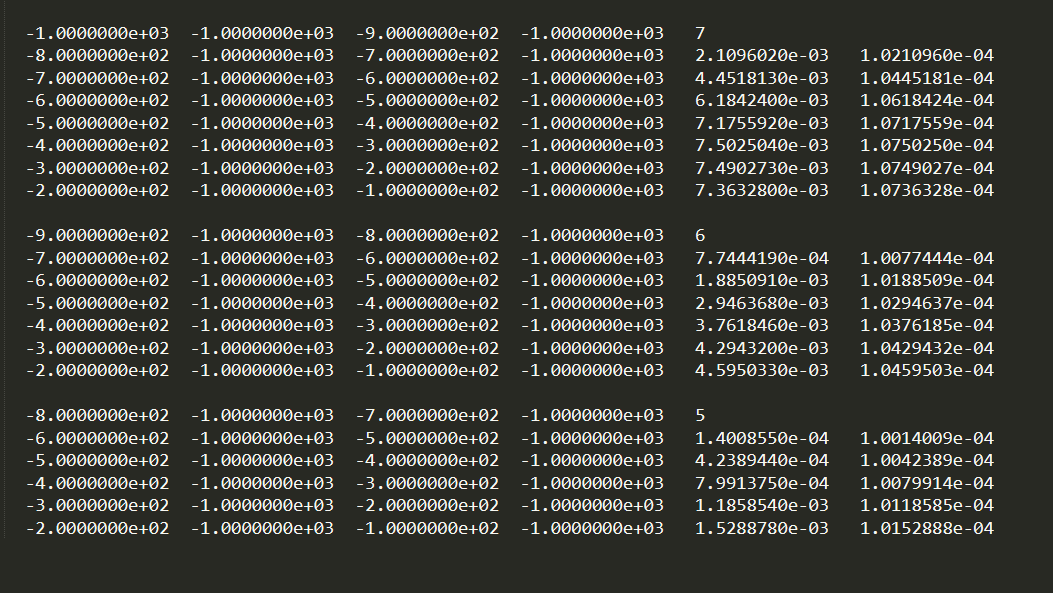
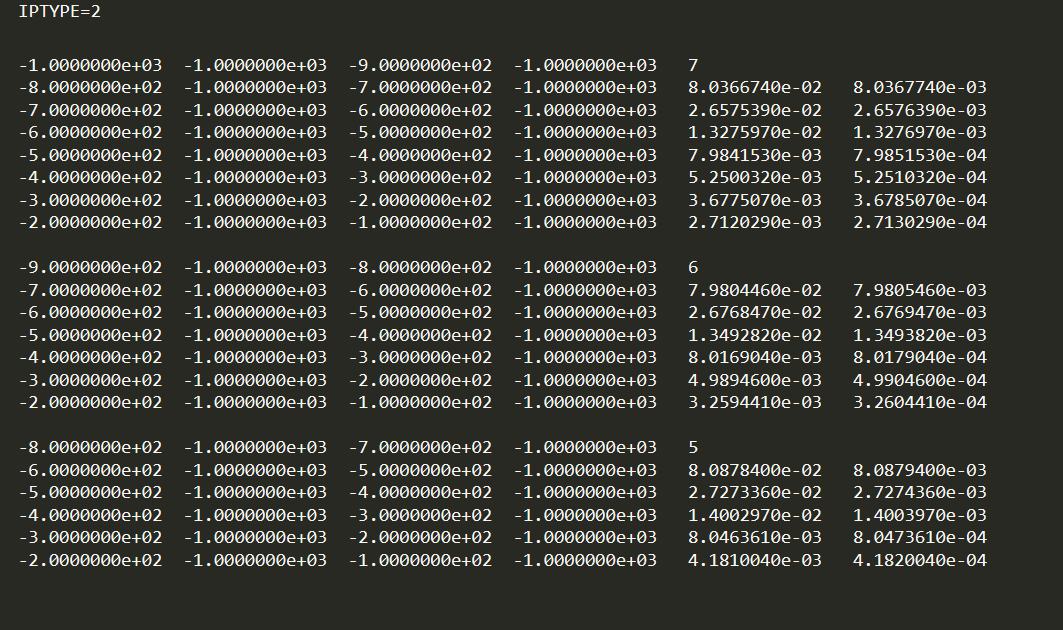
Update to include IPTYPE flag

Changed region(s): [[0.0, 0.0, 0.9421, 0.9106]]

diff --git a/content/files/surveyFile.rst b/content/files/surveyFile.rst
@@ -9,6 +9,8 @@ Survey files provide the survey information for predicting data with **dcipoctre
 
 
 |
+| [*IPTYPE*=1,2]
+|
 | :math:`\;\;\;X_A(1) \;\;\;\;\;\;\;\;\; Y_A(1) \;\;\;\;\;\;\;\;\, [Z_A(1)] \;\;\;\;\;\;\;\; X_B(1) \;\;\;\;\;\;\;\; Y_B(1) \;\;\;\;\;\;\;\;\; [Z_B(1)] \;\;\;\;\;\;\;\;\;\;\; N`
 | :math:`\;X_M(1,2) \;\;\;\; Y_M(1,2) \;\;\;\;\, [Z_M(1,2)] \;\;\;\;\, X_N(1,2) \;\;\;\;\, Y_N(1,2) \;\;\;\;\, [Z_N(1,2)]`
 | :math:`\;X_M(1,1) \;\;\;\; Y_M(1,1) \;\;\;\;\, [Z_M(1,1)] \;\;\;\;\, X_N(1,1) \;\;\;\;\, Y_N(1,1) \;\;\;\;\, [Z_N(1,1)]`
@@ -30,7 +32,8 @@ Survey files provide the survey information for predicting data with **dcipoctre
 
 
 where
-
+	
+	- *IPTYPE* line is used only when simulating IP data. Set *IPTYPE=1* for apparent chargeability and set *IPTYPE=2* for secondary potential
     - :math:`X_A(i) \;\;\; Y_A(i) \;\;\; [Z_A(i)]` is the Easting, Northing and vertical (if needed) position of the A-electrode for source :math:`i`.
     - :math:`X_B(i) \;\;\; Y_B(i) \;\;\; [Z_B(i)]` is the Easting, Northing and vertical (if needed) position of the B-electrode for source :math:`i`.
     - :math:`X_M(i,j) \;\;\; Y_M(i,j) \;\;\; [Z_M(i,j)]` is the Easting, Northing and vertical (if needed) position of M-electrode associated with source :math:`i` and receiver :math:`j`.

diff --git a/content/files/obsFile.rst b/content/files/obsFile.rst
@@ -11,6 +11,8 @@ The general format for observed data files is shown below.
 
 
 |
+| [*IPTYPE*=1,2]
+|
 | :math:`\;\;\;X_A(1) \;\;\;\;\;\;\;\; Y_A(1) \;\;\;\;\;\;\;\, [Z_A(1)] \;\;\;\;\;\;\; X_B(1) \;\;\;\;\;\;\; Y_B(1) \;\;\;\;\;\;\;\; [Z_B(1)] \;\;\;\;\;\;\;\;\;\; N`
 | :math:`\;X_M(1,1) \;\;\; Y_M(1,1) \;\;\;\, [Z_M(1,1)] \;\;\;\, X_N(1,1) \;\;\;\, Y_N(1,1) \;\;\;\, [Z_N(1,1)] \;\;\; data(1,1) \;\;\; unc(1,3)`
 | :math:`\;X_M(1,2) \;\;\; Y_M(1,2) \;\;\;\, [Z_M(1,2)] \;\;\;\, X_N(1,2) \;\;\;\, Y_N(1,2) \;\;\;\, [Z_N(1,2)] \;\;\; data(1,2) \;\;\; unc(1,3)`
@@ -33,6 +35,7 @@ The general format for observed data files is shown below.
 
 where
 
+    - *IPTYPE* line is used only when simulating IP data. Set *IPTYPE=1* for apparent chargeability and set *IPTYPE=2* for secondary potential
     - :math:`X_A(i) \;\;\; Y_A(i) \;\;\; [Z_A(i)]` is the Easting, Northing and vertical (if needed) position of the A-electrode for source :math:`i`.
     - :math:`X_B(i) \;\;\; Y_B(i) \;\;\; [Z_B(i)]` is the Easting, Northing and vertical (if needed) position of the B-electrode for source :math:`i`.
     - :math:`X_M(i,j) \;\;\; Y_M(i,j) \;\;\; [Z_M(i,j)]` is the Easting, Northing and vertical (if needed) position of M-electrode associated with source :math:`i` and receiver :math:`j`.
